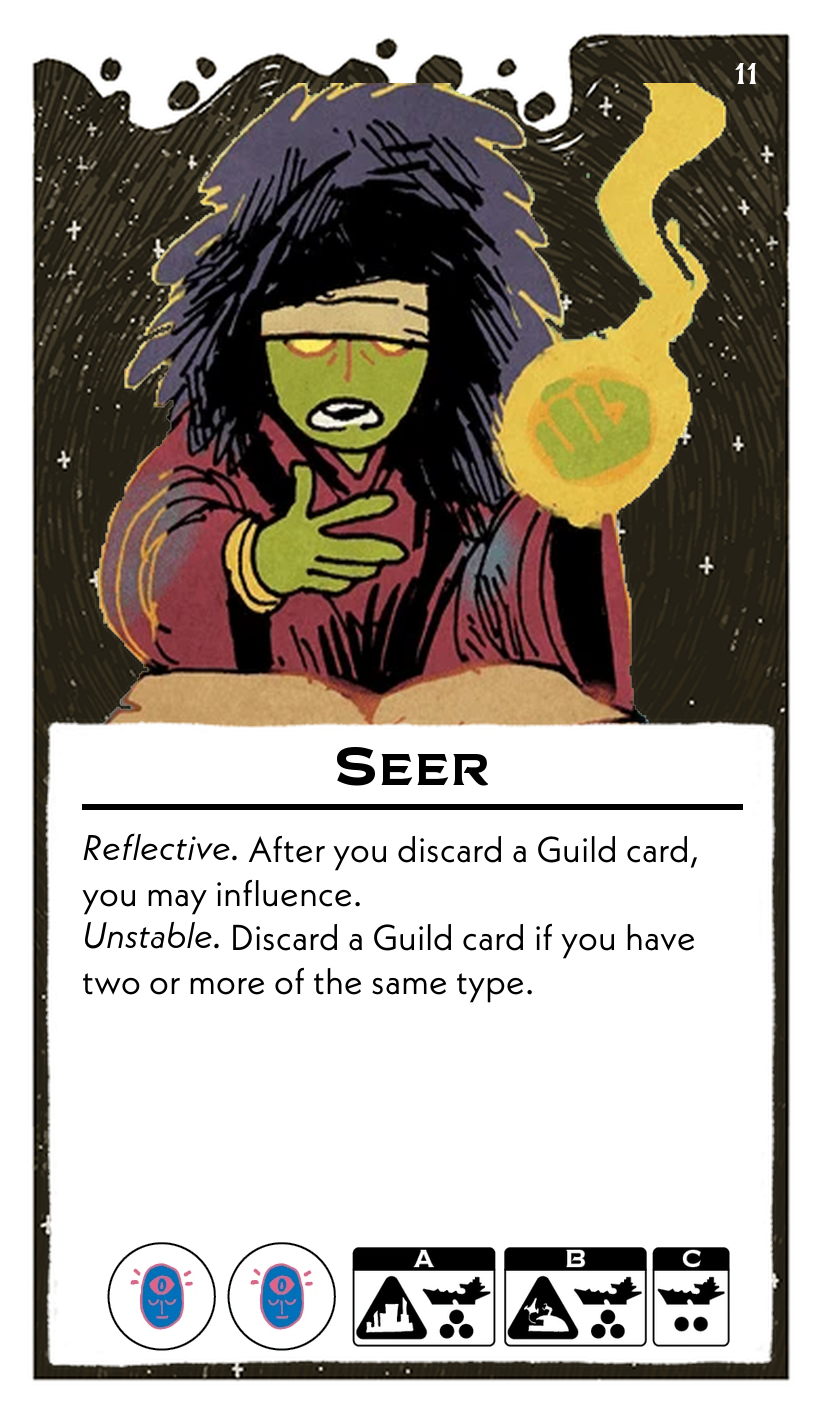
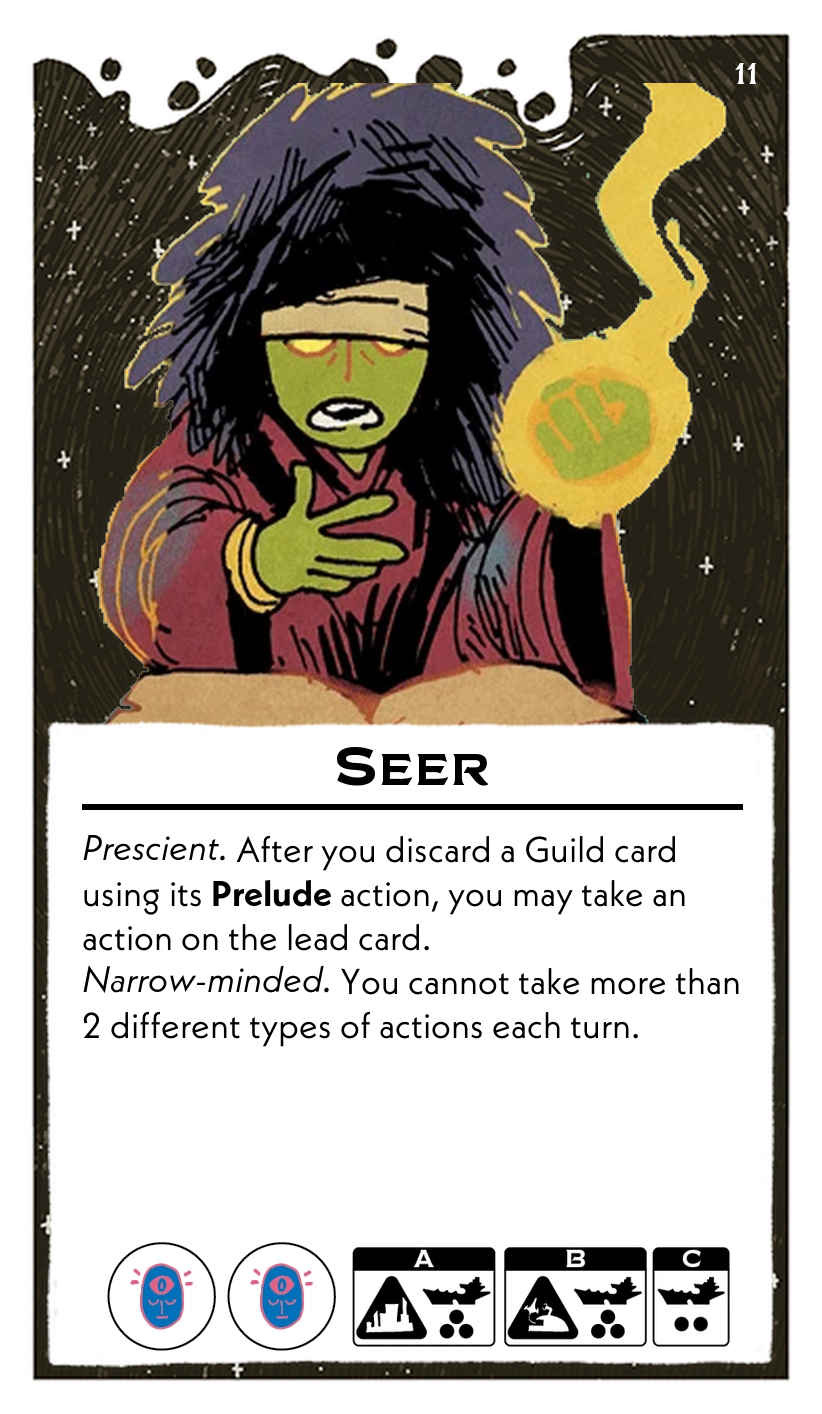
seer

Changed region(s): [[0.0912, 0.5912, 0.9124, 0.7468]]

diff --git a/scripts/leadersFormatted.py b/scripts/leadersFormatted.py
@@ -52,7 +52,7 @@ leaders = [
     {
         "name": "Hierarch",
         "abilities": (
-            "*Entitled.* After you **influence** a card with a rival agent on it, you may influence a different card with a rival agent.\n"
+            "*Entitled.* After you **influence** a card with a rival agent on it, you may influence a different card with a rival agent on it.\n"
             "*Rigid.* You cannot **influence** when you Pivot."
         ),
         "resources": ["Psionic", "Material"],
@@ -159,8 +159,8 @@ leaders = [
     {
         "name": "Seer",
         "abilities": (
-            "*Reflective.* After you discard a Guild card, you may influence.\n"
-            "*Unstable.* Discard a Guild card if you have two or more of the same type."
+            "*Prescient.* After you discard a Guild card using its **Prelude** action, you may take an action on the lead card.\n"
+            "*Narrow-minded.* You cannot take more than 2 different types of actions each turn."
         ),
         "resources": ["Psionic", "Psionic"],
         "setup": {
